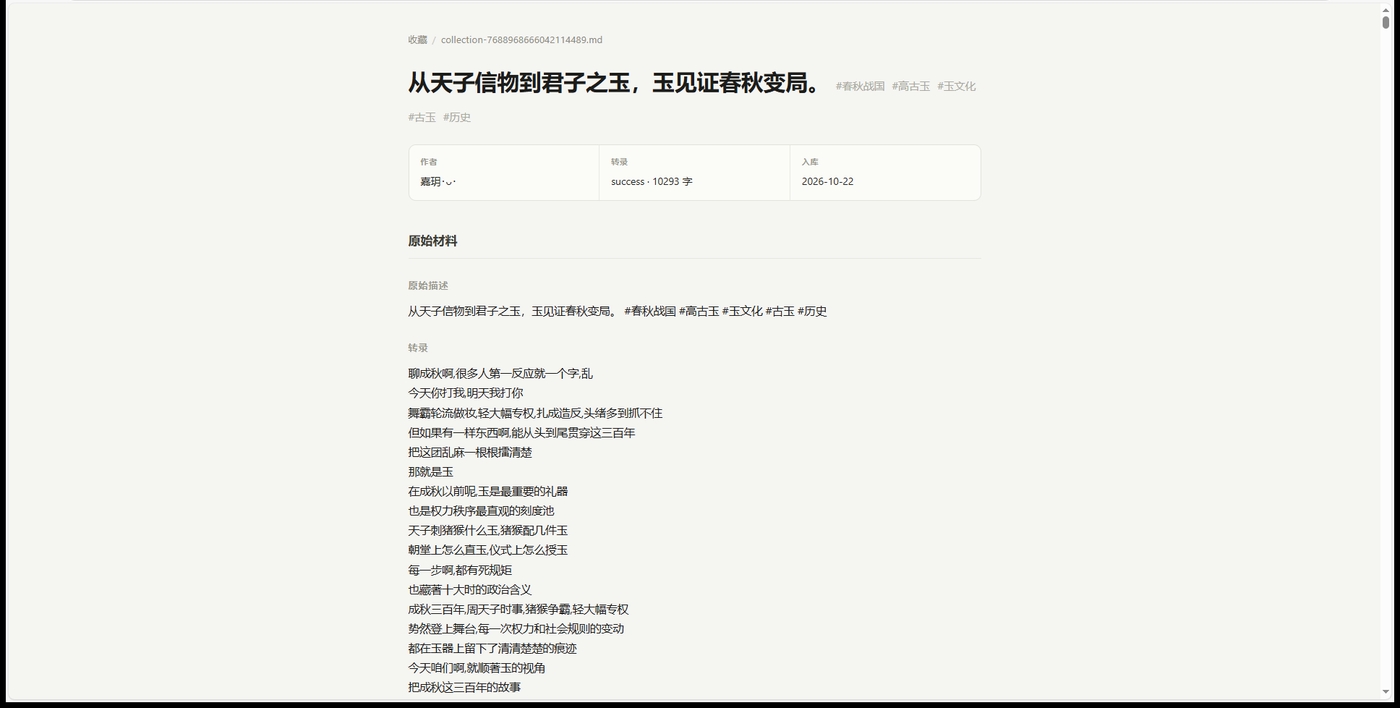
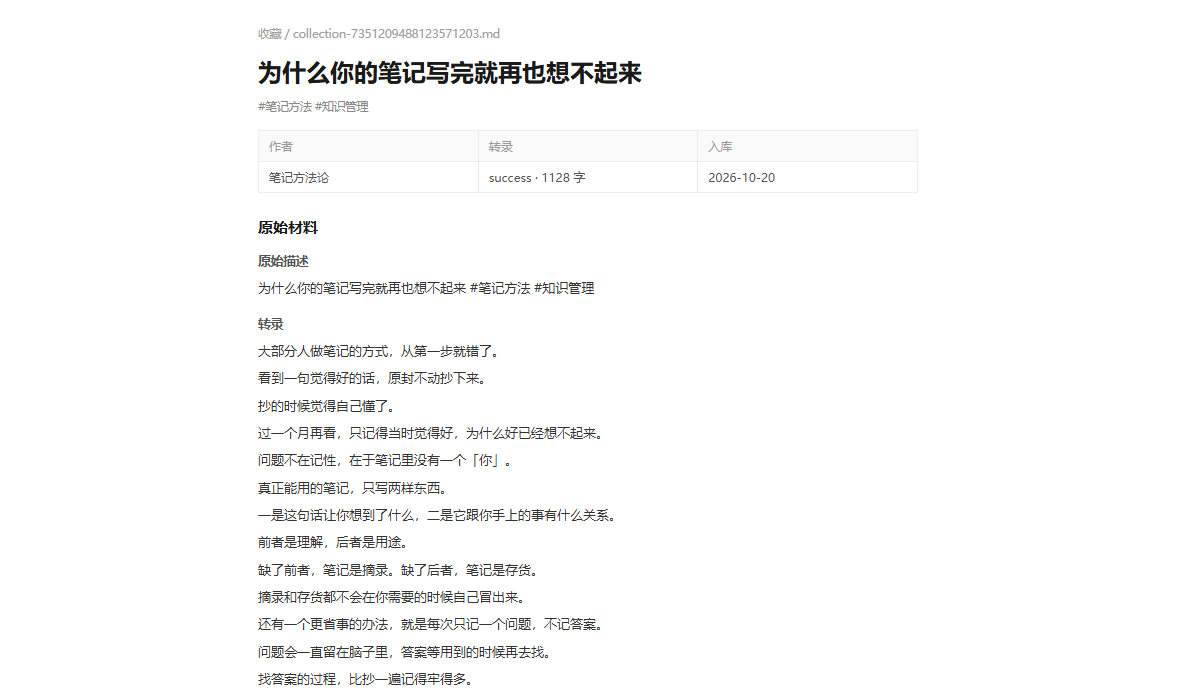
清理文档中的个人信息与实测细节，截图改用示例数据

diff --git a/使用说明.html b/使用说明.html
@@ -317,33 +317,28 @@
   <section>
     <h2>实际跑一遍长什么样</h2>
     <p style="font-size:14px;color:var(--ink-2);margin:-8px 0 22px">
-      下面是完整流程的截图，从点收藏到出日报。
+      下面是产出长什么样。起点是手机刷到想留的视频点个五角星，电脑上打开抖音「我的 · 收藏」就能看到它们，同步抓的就是这一页的列表。
     </p>
 
     <figure>
-      <img src="截图/01-收藏夹.png" alt="抖音网页端收藏列表">
-      <figcaption><b>1 / 起点。</b>手机刷到想留的视频点五角星，电脑上打开抖音「我的 · 收藏」能看到它们。同步抓的就是这一页的列表。</figcaption>
-    </figure>
-
-    <figure>
       <img src="截图/02-笔记.png" alt="生成的 Markdown 笔记">
-      <figcaption><b>2 / 产出。</b>每条视频一篇 Markdown，标题、作者、原链接、时长、逐字稿全在里面。逐字稿按行断开，读起来是字幕的节奏，不是一大坨。</figcaption>
+      <figcaption><b>1 / 产出。</b>每条视频一篇 Markdown，标题、作者、原链接、时长、逐字稿全在里面。逐字稿按行断开，读起来是字幕的节奏，不是一大坨。</figcaption>
     </figure>
 
     <figure>
       <img src="截图/03-日报.png" alt="当天日报">
-      <figcaption><b>3 / 日报。</b>当天新增汇总成一个页面，日期、条数、每条的标题和双链一目了然。没有口播的条目不会出现在这里。</figcaption>
+      <figcaption><b>2 / 日报。</b>当天新增汇总成一个页面，日期、条数、每条的标题和双链一目了然。没有口播的条目不会出现在这里。</figcaption>
     </figure>
 
     <figure>
       <img src="截图/04-知识库.png" alt="知识库目录结构">
-      <figcaption><b>4 / 沉淀。</b>笔记按来源分到 <code>收藏/</code> 和 <code>喜欢/</code> 子目录，日报单独一栏。时间长了就是一个能搜、能跳转、能丢给 AI 读的本地库。</figcaption>
+      <figcaption><b>3 / 沉淀。</b>笔记按来源分到 <code>收藏/</code> 和 <code>喜欢/</code> 子目录，日报单独一栏。时间长了就是一个能搜、能跳转、能丢给 AI 读的本地库。</figcaption>
     </figure>
   </section>
 
   <footer>
     底层引擎 <a href="https://github.com/tars1230/douyin-favorites-to-knowledge">douyin-favorites-to-knowledge</a> v2.3.3（MIT 协议）+ douyin-knowledge-core 0.2.1，安装器、兼容补丁与全部文档为本版重写。<br>
-    本版在原包基础上修了十七处会导致装不上、跑不通或产出脏数据的问题，详见 <code>README.md</code>。
+    本版在原包基础上修了多处会导致装不上、跑不通或产出脏数据的问题，详见 <code>README.md</code>。
   </footer>
 
 </div>
